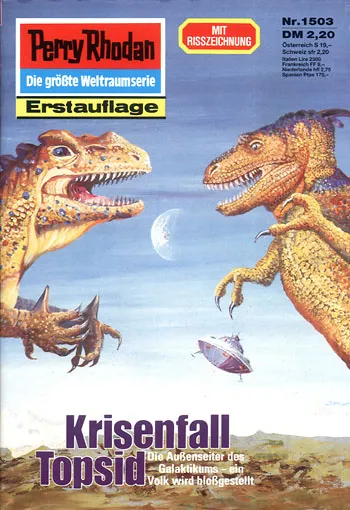
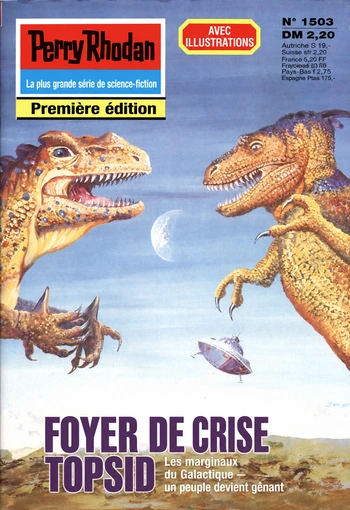
Update French Perry Rhodan covers 1503-1504

diff --git a/src/content/chapitres/de-1503.md b/src/content/chapitres/de-1503.md
@@ -5,7 +5,7 @@ cycleNumber: 22
 chapterNumber: 1503
 type: translation
 originalTitle: "Krisenfall Topsid"
-cover: "/images/covers/de-1503.webp"
+cover: "/images/covers/de-1503.webp?v=20260826-1504"
 auteur: "Robert Feldhoff"
 parution: "1990-06-11"
 statut: wip

diff --git a/src/content/chapitres/de-1504.md b/src/content/chapitres/de-1504.md
@@ -5,7 +5,7 @@ cycleNumber: 22
 chapterNumber: 1504
 type: translation
 originalTitle: "Die Mutantensucher"
-cover: "/images/covers/de-1504.webp"
+cover: "/images/covers/de-1504.webp?v=20260826-1504"
 auteur: "Arndt Ellmer"
 parution: "1990-06-18"
 statut: wip
